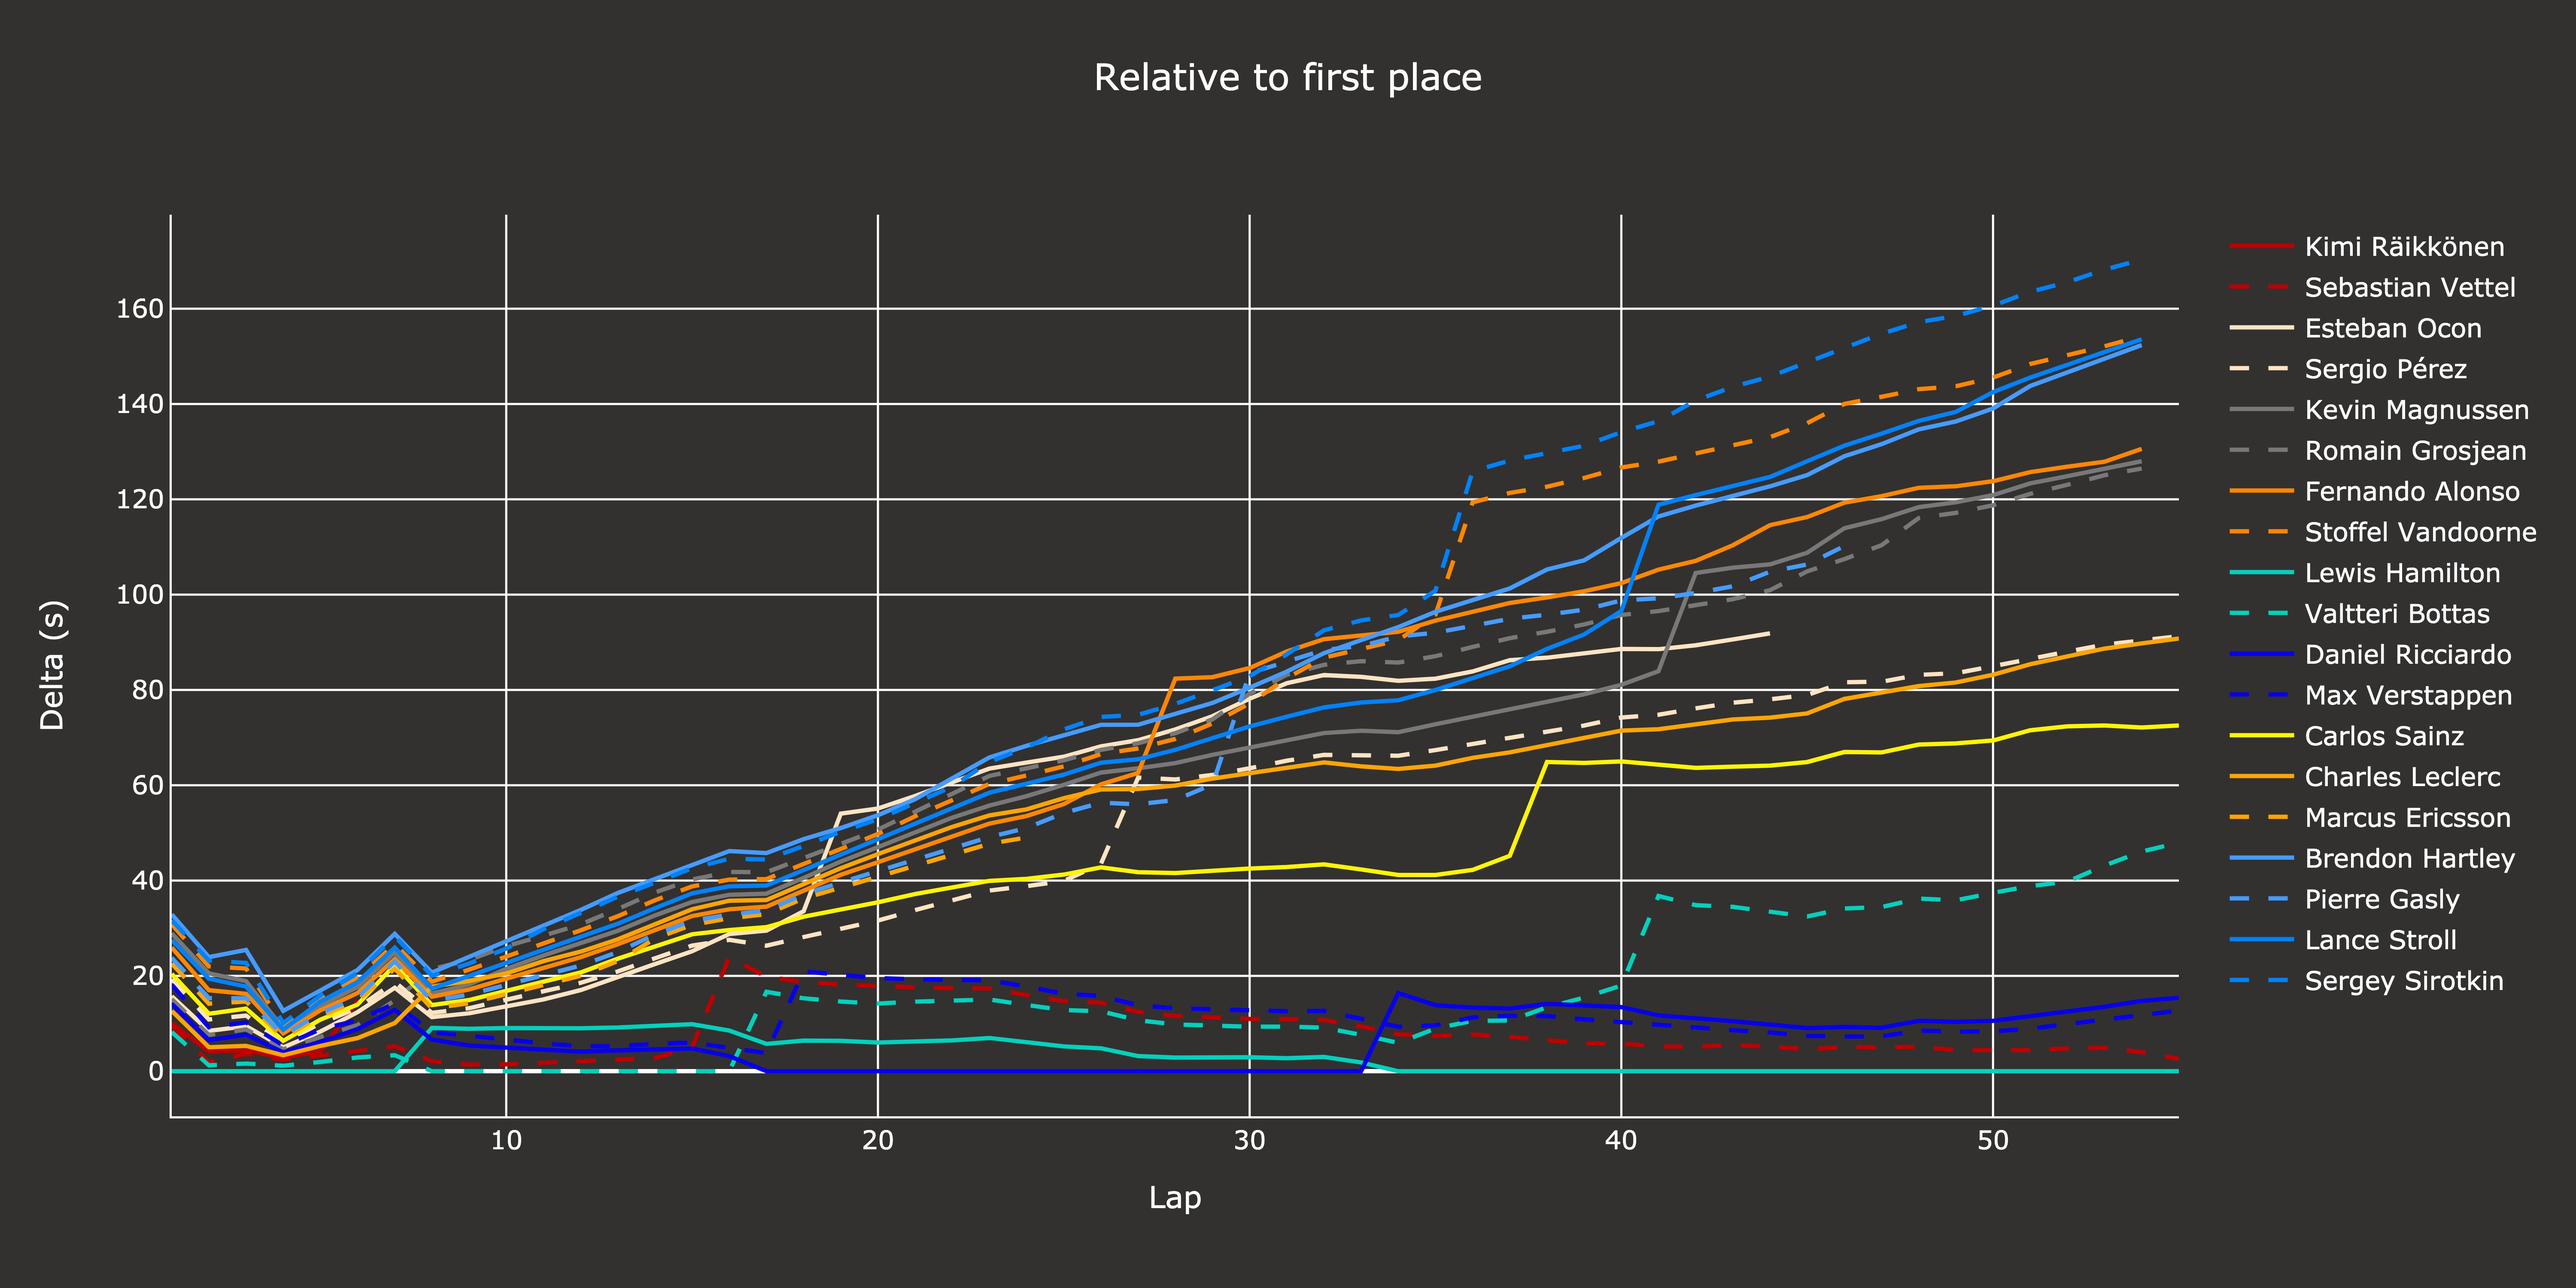
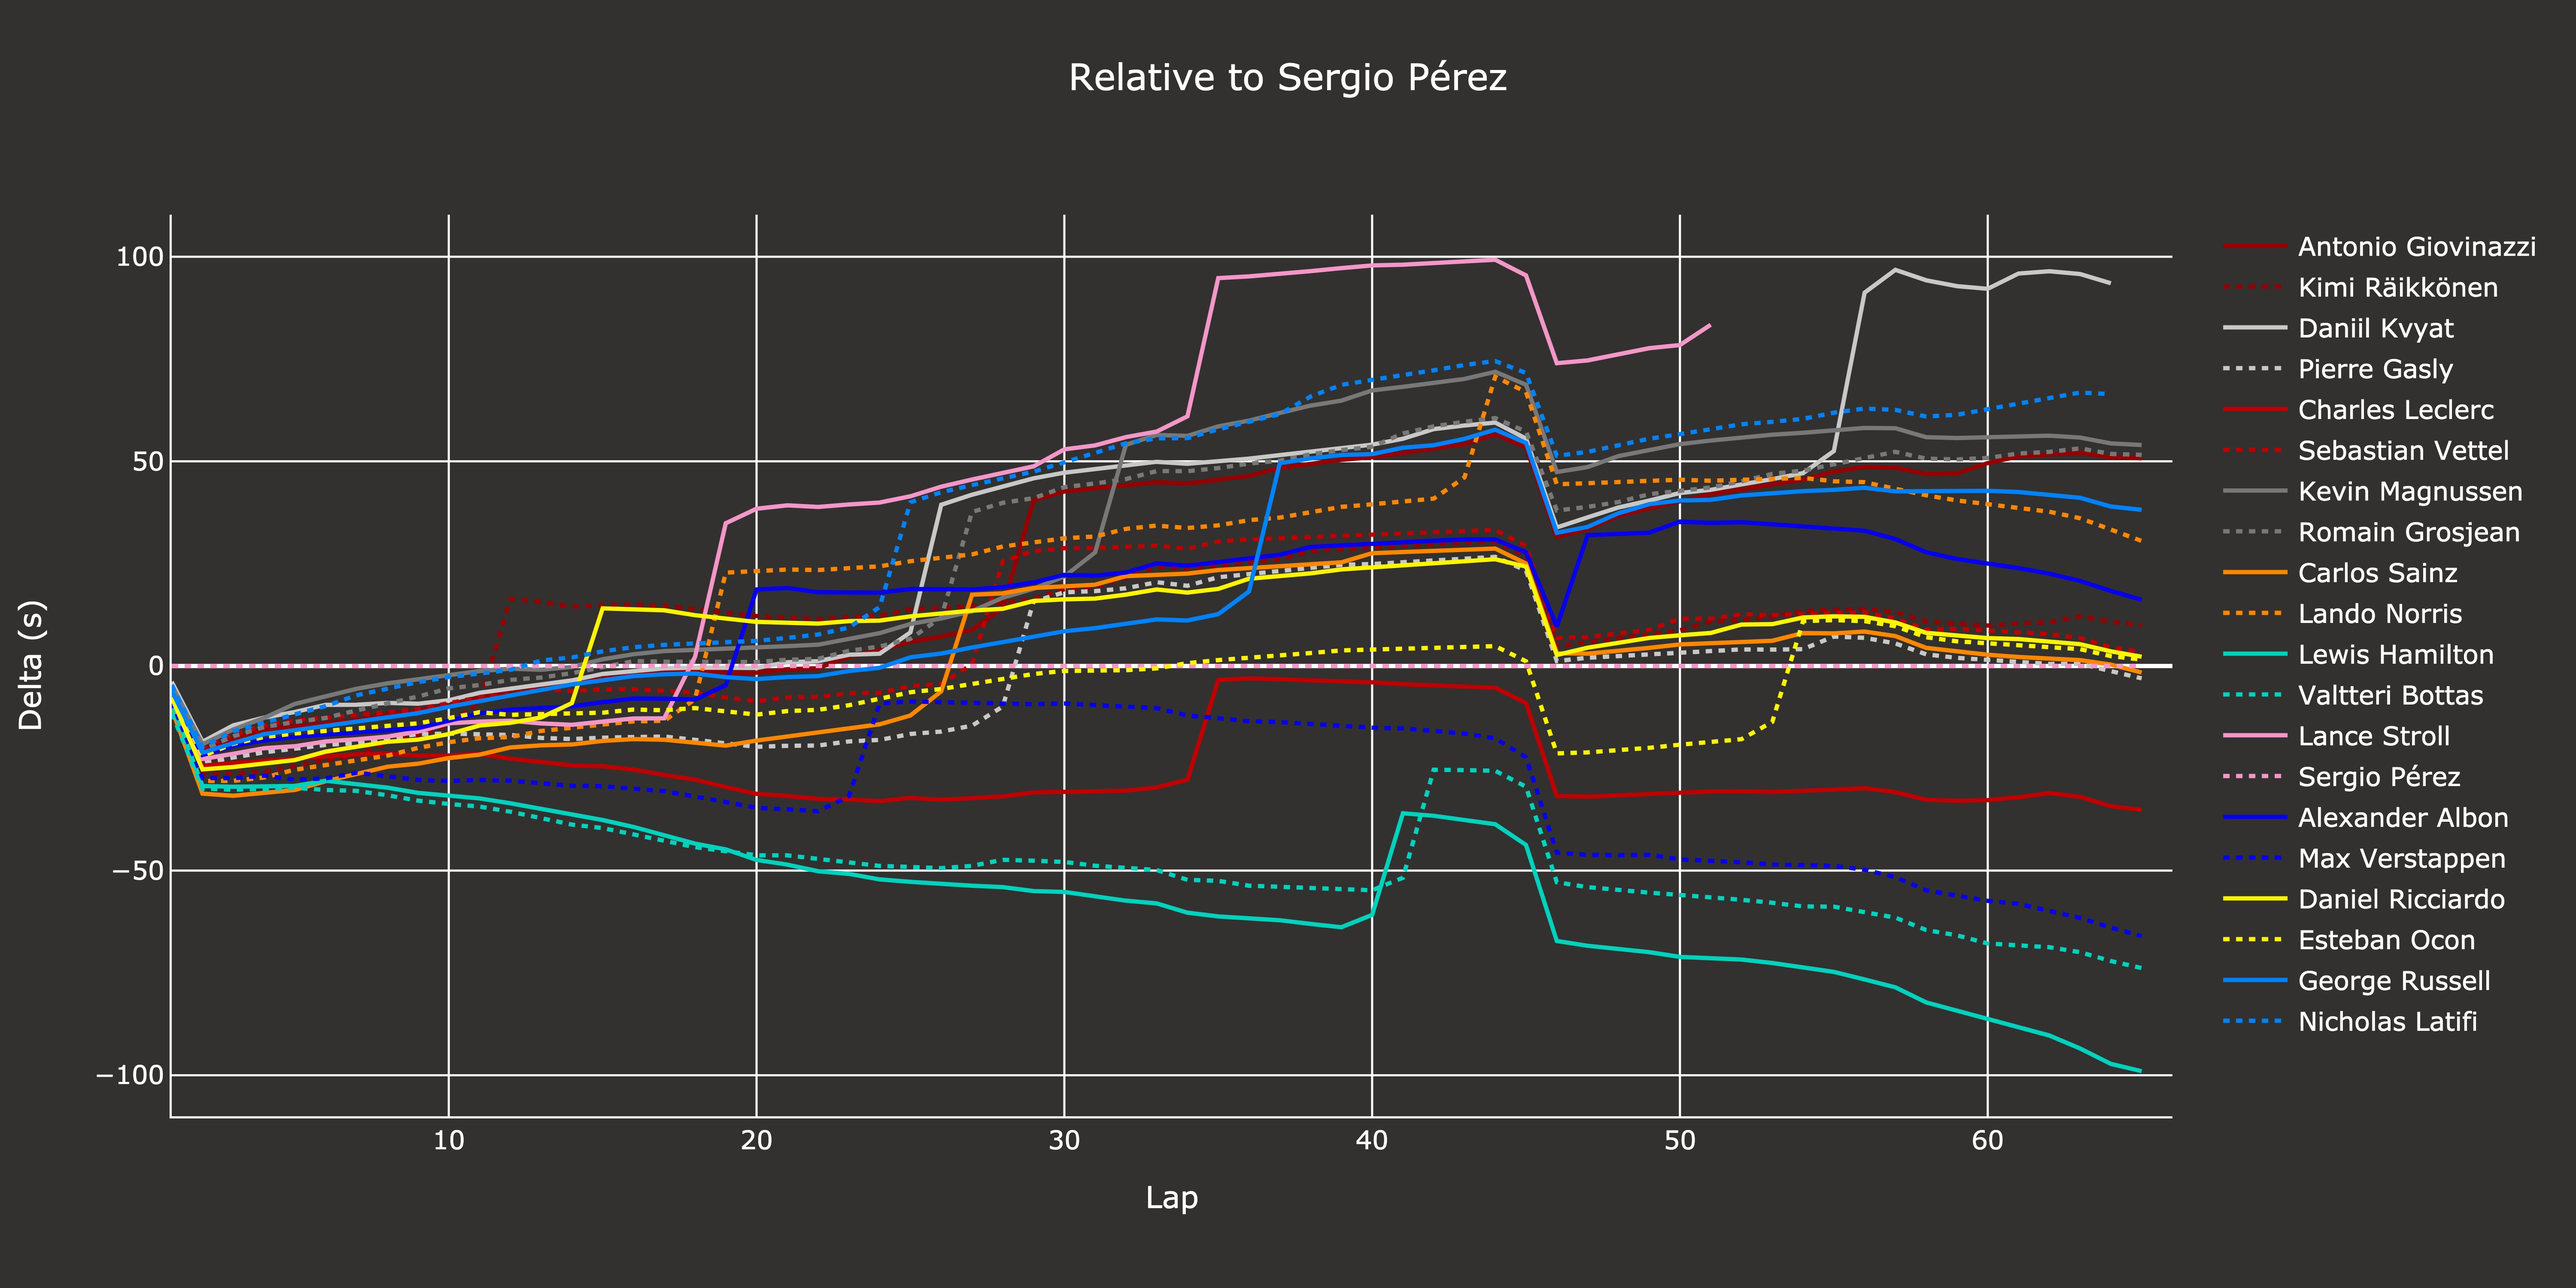
new figure

diff --git a/create_deltagraph.py b/create_deltagraph.py
@@ -40,7 +40,7 @@ def create_race_table(year, race_name):
     color_palette = pd.Series(colored_df.color.values, index = colored_df.driverName).to_dict()
     return df_4, races_temp, color_palette,colored_df
 
-race_table,races_temp,color_palette,color_df = create_race_table(2018,'Abu Dhabi Grand Prix')
+race_table,races_temp,color_palette,color_df = create_race_table(2020,'Portuguese Grand Prix')
 print(color_df)
 def plotDeltaGraph(deltaType):
         df_grouped = [y for x,y in race_table.groupby('driverName',as_index=False)]
@@ -86,7 +86,7 @@ def plotDeltaGraph(deltaType):
                 if j == 0:
                     line = go.Scatter(x=df_driver['lap'],y=df_driver['delta'],name=name,mode='lines',line=go.scatter.Line(color=color))
                 else:
-                    line = go.Scatter(x=df_driver['lap'],y=df_driver['delta'],name=name,mode='lines',line=go.scatter.Line(color=color,dash='dash'))
+                    line = go.Scatter(x=df_driver['lap'],y=df_driver['delta'],name=name,mode='lines',line=go.scatter.Line(color=color,dash='dot'))
                 fig.add_trace(line)
         fig.update_layout(plot_bgcolor="#323130",
             paper_bgcolor="#323130",font=dict(color="white"),
@@ -96,7 +96,7 @@ def plotDeltaGraph(deltaType):
         #fig.update_layout(xaxis=dict(range=[1,64.9]))
         fig.update_layout(
             title={
-                'text': "Relative to first place",
+                'text': "Relative to Sergio Pérez",
                 'y':0.95,
                 'x':0.5,
                 'xanchor': 'center',
@@ -105,5 +105,5 @@ def plotDeltaGraph(deltaType):
         fig.show()
         #plotly.offline.plot(fig, filename= "Deltaplot2")
 
-plotDeltaGraph('min')
+plotDeltaGraph('Sergio Pérez')
 
